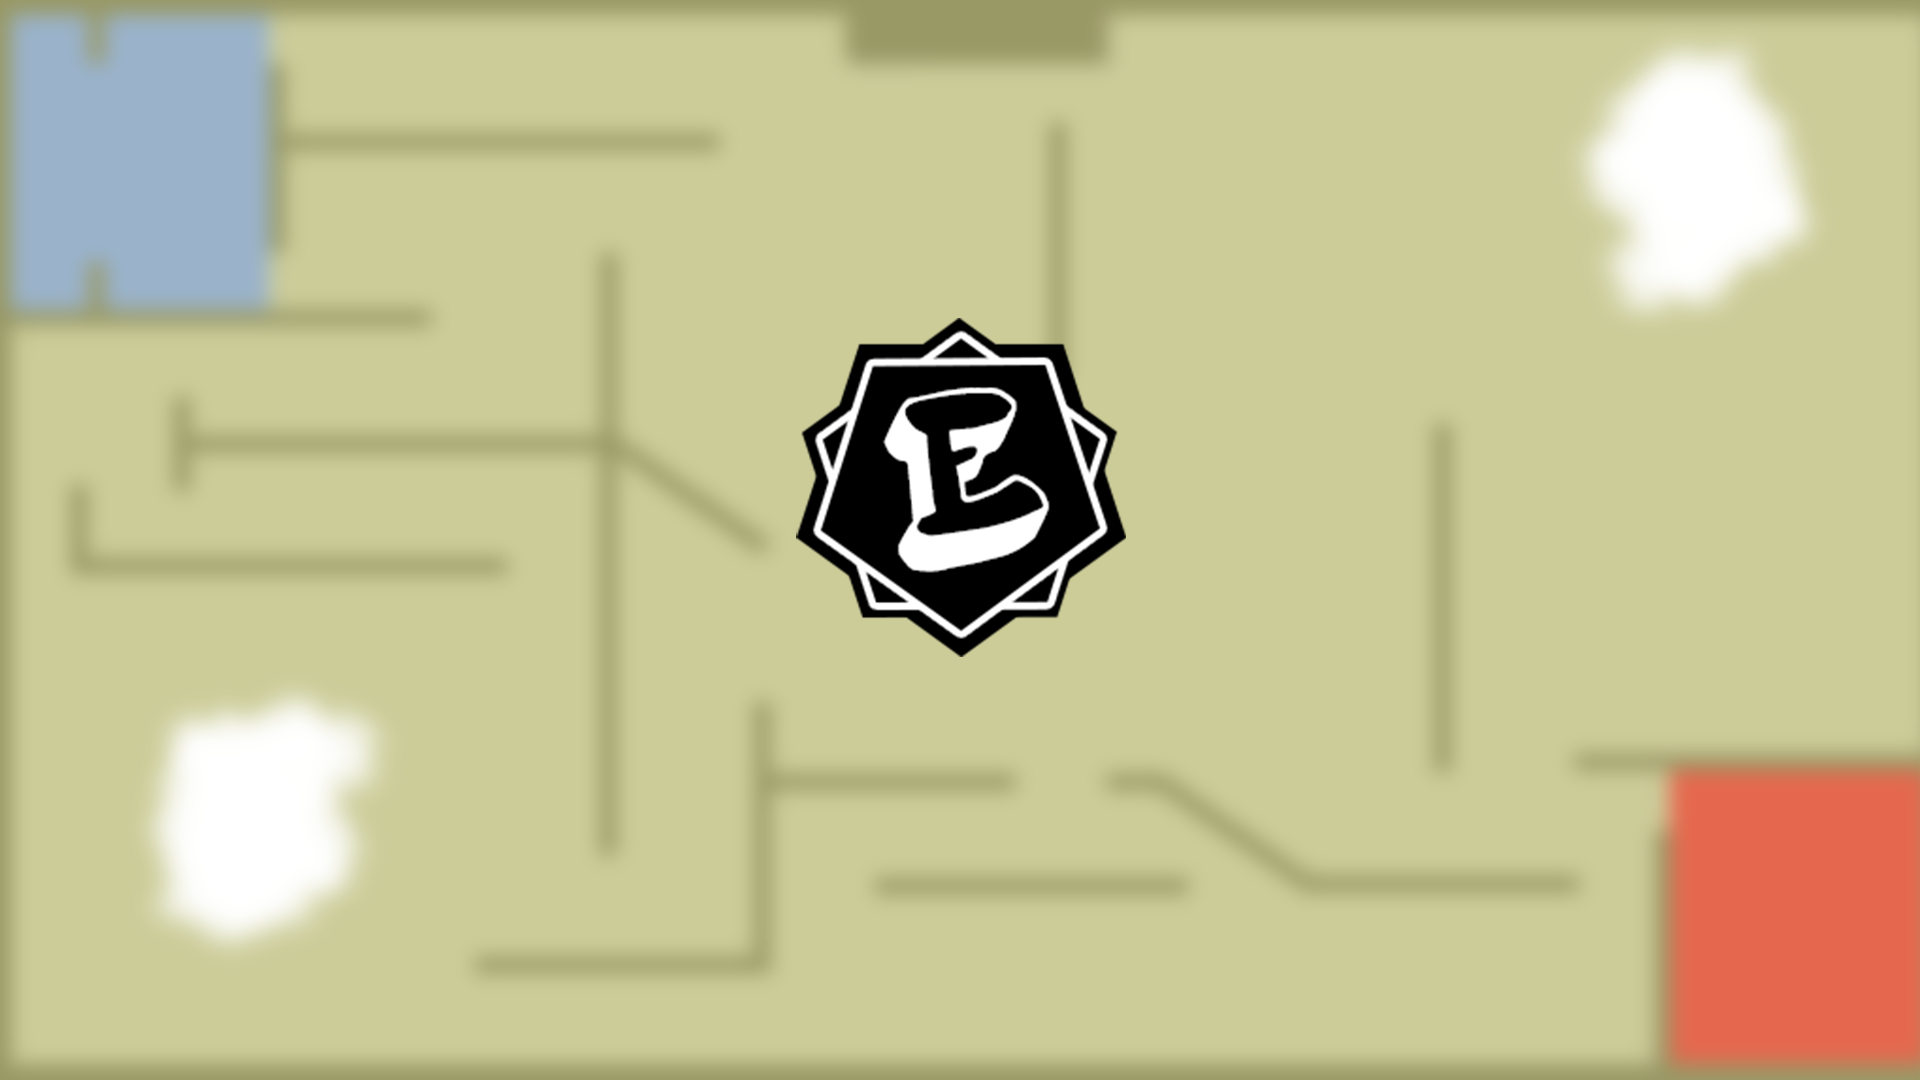
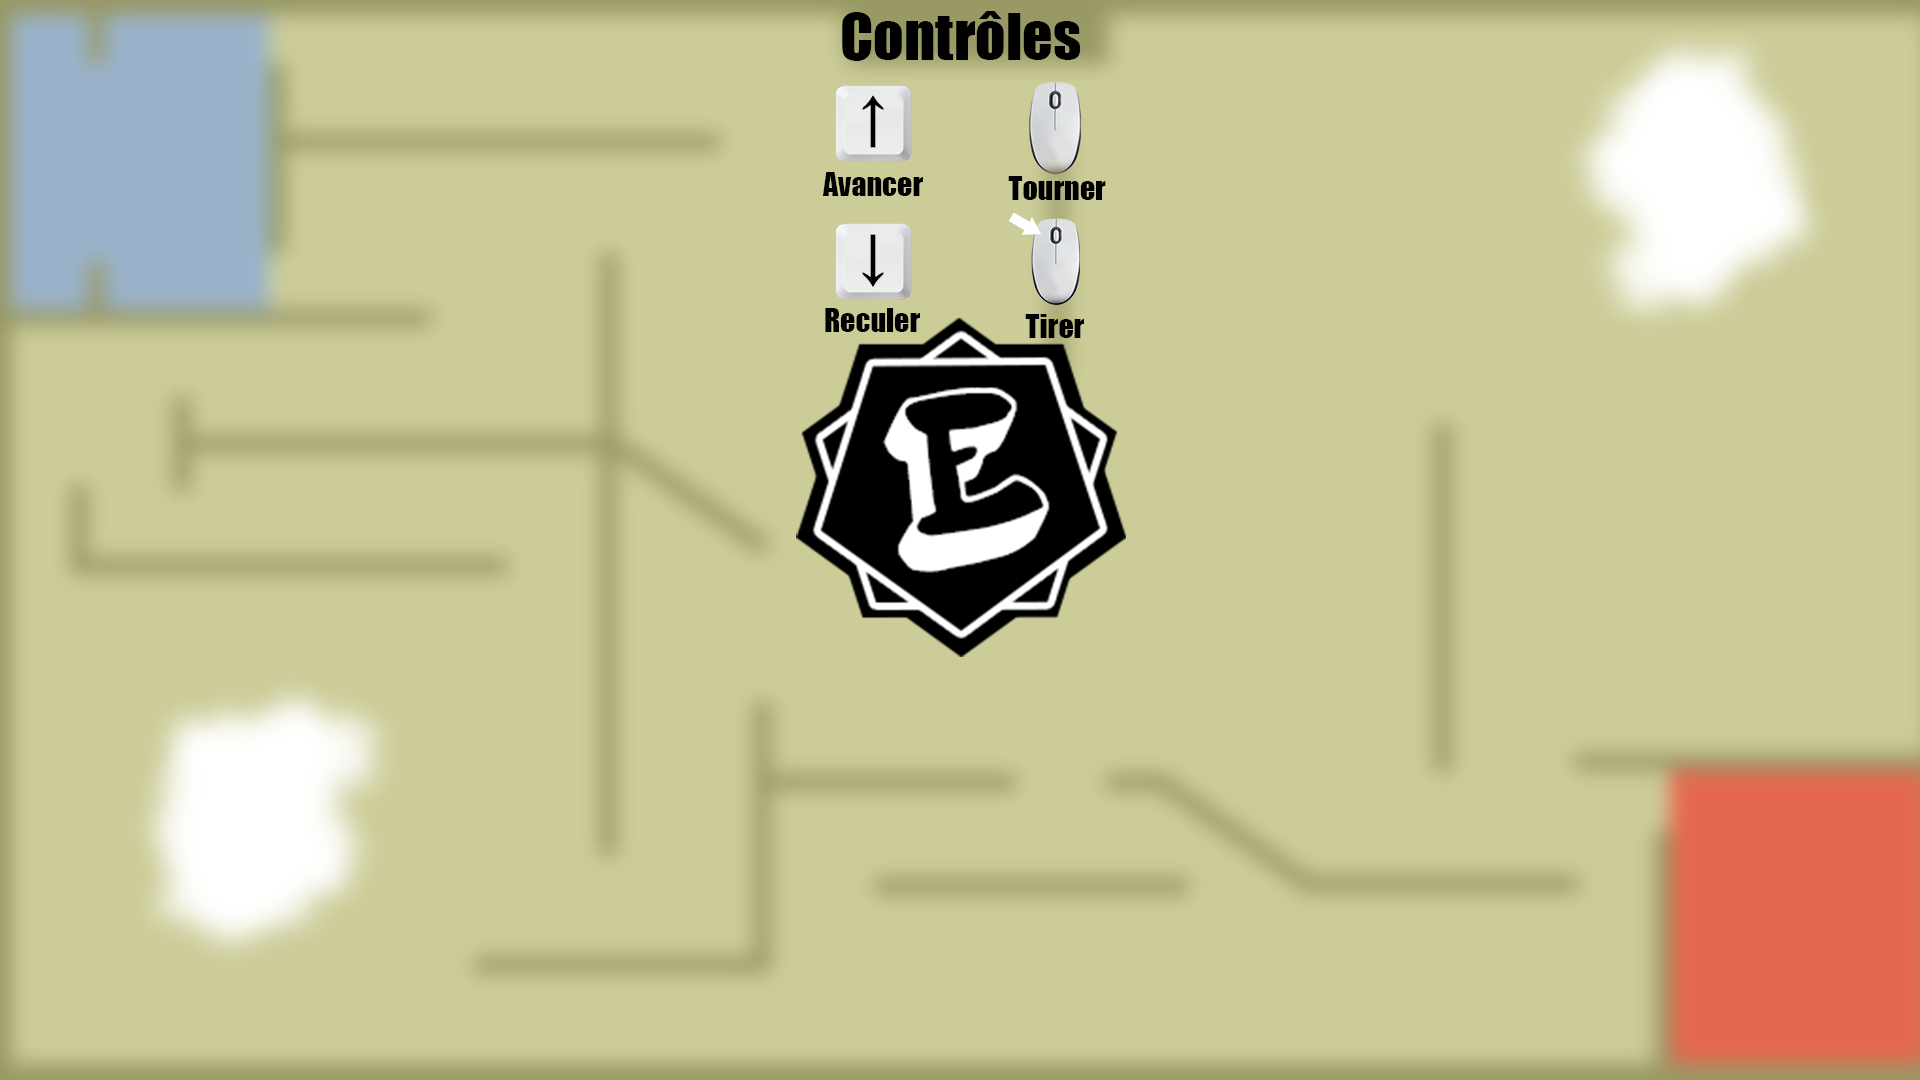
up

Changed region(s): [[0.4062, 0.0, 0.5938, 0.3361]]

diff --git a/net/epopy/network/handlers/modules/TChat.java b/net/epopy/network/handlers/modules/TChat.java
@@ -18,8 +18,8 @@ public class TChat {
 
 	private TextAreaGui textArea;
 	private int x, y, maxWidth;
-	private List<String> messages = new LinkedList<>();
-	private int MAX_MESSAGE = 12;
+	private static List<String> messages = new LinkedList<>();
+	private static int MAX_MESSAGE = 12;
 
 	public TChat(int x, int y, int maxWidth) {
 		this.x = x;
@@ -33,9 +33,9 @@ public class TChat {
 	/*
 	 * Fonctions
 	 */
-	public void addMessage(String sender, String message) {
-		messages.add(sender.equals("SERVER") ? "&e" + message : sender + " » " + message);
-		//System.out.println(sender + " » " + message);
+	public static void addMessage(String sender, String message) {//»
+		messages.add(sender.equals("SERVER") ? "&e" + message : sender + " : " + message);
+	
 		if(messages.size() > MAX_MESSAGE)
 			messageFirst++;
 
@@ -57,8 +57,10 @@ public class TChat {
 
 	}
 	//dernier message qu'il veut afficher 
-	int messageFirst = 1;
-
+	private static int messageFirst = 1;
+	private float[] serverColor = new float[]{1, 1, 0, 1};
+	private float[] defaultColor = new float[]{1, 1, 1, 1};
+	
 	public void render() {
 		int x = this.x - 15;
 		int y = this.y - 50;
@@ -75,9 +77,9 @@ public class TChat {
 
 		for(String message : messagesList) {
 			if(message.contains("&e"))
-				ComponentsHelper.drawText(message.replace("&e", ""), x, y, 30, new float[]{1, 1, 0, 1});
+				ComponentsHelper.drawText(message.replace("&e", ""), x, y, 30, serverColor);
 			else
-				ComponentsHelper.drawText(message, x, y, 30);
+				ComponentsHelper.drawText(message, x, y, 30, defaultColor);
 			y -= 30;
 		}
 

diff --git a/net/epopy/network/games/tank/Tank.java b/net/epopy/network/games/tank/Tank.java
@@ -1,6 +1,5 @@
 package net.epopy.network.games.tank;
 
-import static net.epopy.epopy.display.components.ComponentsHelper.drawCircle;
 import static net.epopy.epopy.display.components.ComponentsHelper.drawLine;
 import static net.epopy.epopy.display.components.ComponentsHelper.drawText;
 
@@ -87,9 +86,9 @@ public class Tank extends AbstractGameNetwork {
 							!PacketGameStatus.WAITING_MESSAGE.equals("Lancement dans 00:02") &&
 							!PacketGameStatus.WAITING_MESSAGE.equals("Lancement dans 00:03")) {
 						// inputs
-						if (Input.isKeyDown(Keyboard.KEY_S))
+						if (Input.isKeyDown(Keyboard.KEY_DOWN))
 							CalculTank.moove(true);
-						else if (Input.isKeyDown(Keyboard.KEY_Z))
+						else if (Input.isKeyDown(Keyboard.KEY_UP))
 							CalculTank.moove(false);
 					}
 					
@@ -133,8 +132,7 @@ public class Tank extends AbstractGameNetwork {
 			player.render();
 			
 		for (Ball ball : getBalls())
-			drawCircle(ball.getLocation().getX(), ball.getLocation().getY(), 5, 10, ball.getColor());
-			
+			ball.render();
 		if (getGameStatus().equals(GameStatus.IN_GAME)) {
 			drawText(String.valueOf(getTeam("BLUE").getPoints()), AbstractGameMenu.defaultWidth / 2 - 10, 20, PosWidth.DROITE, PosHeight.HAUT, 30, getTeam("BLUE").getColor());
 			drawText(String.valueOf(getTeam("RED").getPoints()), AbstractGameMenu.defaultWidth / 2 + 20, 20, PosWidth.GAUCHE, PosHeight.HAUT, 30, getTeam("RED").getColor());

diff --git a/net/epopy/network/games/AbstractGameNetwork.java b/net/epopy/network/games/AbstractGameNetwork.java
@@ -22,7 +22,7 @@ public abstract class AbstractGameNetwork {
 	private static Map<String, PlayerNetwork> players = new TreeMap<>();
 	private static Map<String, PlayerNetwork> playersADD = new TreeMap<>();
 	private static List<String> playersREMOVE = new LinkedList<>();
-	
+
 	private static Map<String, Team> teams = new TreeMap<>(); // STRING = nom de la team
 	private static Map<String, Ball> balls = new TreeMap<>(); // STRING = nom de la team
 	private static Map<String, Zone> zones = new TreeMap<>();//INT = id de la zone
@@ -117,9 +117,10 @@ public abstract class AbstractGameNetwork {
 	// ----- BALLS -----
 
 	public void updateBall(final String name, final float[] color, final Location3D location3d) {
-		if (balls.containsKey(name))
-			balls.get(name).setLocation3d(location3d);
-		else
+		if (balls.containsKey(name)) {
+			if(location3d != null)
+				balls.get(name).setLocation3d(location3d);
+		} else
 			balls.put(name, new Ball(name, color, location3d));
 	}
 
@@ -151,7 +152,7 @@ public abstract class AbstractGameNetwork {
 			zoneADD.clear();
 		}
 	}
-	
+
 	public void addZone(String id) {
 		updateZone();
 		if (!zones.containsKey(id))

diff --git a/net/epopy/network/handlers/packets/modules/PacketPlayerWaitingRoom.java b/net/epopy/network/handlers/packets/modules/PacketPlayerWaitingRoom.java
@@ -113,15 +113,10 @@ public class PacketPlayerWaitingRoom extends PacketAbstract {
 					if (MapLoader.LOADING) {
 						if (!connexion) {
 							connexion = true;
-							new java.util.Timer().schedule(
-									new java.util.TimerTask() {
-										@Override
-										public void run() {
-											NetworkPlayer.getNetworkPlayer().connectGame(ip, port);
-											System.out.println("[Server - Network] Server ready ! Teleportation ..."); 
-											NetworkPlayer.getGame().clear();
-										}
-									}, 500);
+
+							NetworkPlayer.getNetworkPlayer().connectGame(ip, port);
+							System.out.println("[Server - Network] Server ready ! Teleportation ..."); 
+							NetworkPlayer.getGame().clear();
 
 							new java.util.Timer().schedule(
 									new java.util.TimerTask() {
@@ -130,6 +125,7 @@ public class PacketPlayerWaitingRoom extends PacketAbstract {
 											Packets.sendPacket(NetworkPlayer.getNetworkPlayer().getNetworkPlayerHandlersGame(), new PacketPlayerJoin(team));
 										}
 									}, 2000);
+							
 							new java.util.Timer().schedule(
 									new java.util.TimerTask() {
 										@Override

diff --git a/net/epopy/network/games/modules/Ball.java b/net/epopy/network/games/modules/Ball.java
@@ -1,11 +1,19 @@
 package net.epopy.network.games.modules;
 
+import static net.epopy.epopy.display.components.ComponentsHelper.drawCircle;
+
+import net.epopy.network.NetworkPlayer;
+
 public class Ball {
 
 	private float[] color;
 	private Location3D location3d;
 	private String name;
-	
+
+	private double lastX = 0;
+	private double lastY = 0;
+	private int stay = 0;
+
 	public Ball(String name, float[] color, Location3D location3d) {
 		this.name = name;
 		this.color = color;
@@ -15,7 +23,7 @@ public class Ball {
 	/*
 	 * GETTERS
 	 */
-	
+
 	public float[] getColor() {
 		return color;
 	}
@@ -28,10 +36,23 @@ public class Ball {
 		return name;
 	}
 
+	public void render() {
+		if(getLocation().getX() == lastX && getLocation().getY() == lastY) {
+			stay++;
+			if(stay > 10) {
+				stay = 0;
+				NetworkPlayer.getGame().removeBall(getName());
+			}
+		} else 
+			drawCircle(getLocation().getX(), getLocation().getY(), 5, 10, getColor());
+		this.lastX = location3d.getX();
+		this.lastY = location3d.getY();
+	}
+
 	/*
 	 * SETTERS
 	 */
-	
+
 	public void setColor(float[] color) {
 		this.color = color;
 	}

diff --git a/net/epopy/network/handlers/packets/modules/PacketPlayerTChat.java b/net/epopy/network/handlers/packets/modules/PacketPlayerTChat.java
@@ -2,6 +2,7 @@ package net.epopy.network.handlers.packets.modules;
 
 import net.epopy.network.games.waitingroom.WaitingRoom;
 import net.epopy.network.handlers.NetworkPlayerHandlers;
+import net.epopy.network.handlers.modules.TChat;
 import net.epopy.network.handlers.packets.PacketAbstract;
 import net.epopy.network.utils.DataBuffer;
 
@@ -30,7 +31,7 @@ public class PacketPlayerTChat extends PacketAbstract {
 		String targetName = dataBuffer.getString();
 		String message = dataBuffer.getString();
 		PacketTChatType type = PacketTChatType.valueOf(dataBuffer.getString().toUpperCase());
-		switch (type) {
+	/**	switch (type) {
 		case PRIVATE:
 			break;
 		case WAITING_ROOM:
@@ -41,7 +42,9 @@ public class PacketPlayerTChat extends PacketAbstract {
 		default:
 			System.out.println("[TChat] Sender:" + senderName + " Target:" + targetName + " Message:" + message);
 			break;
-		}
+		}*/
+		if(type == PacketTChatType.WAITING_ROOM) 
+			TChat.addMessage(senderName, message);
 	}
 
 	public enum PacketTChatType {

diff --git a/net/epopy/network/handlers/NetworkPlayerHandlersUDP.java b/net/epopy/network/handlers/NetworkPlayerHandlersUDP.java
@@ -16,14 +16,15 @@ public class NetworkPlayerHandlersUDP implements Runnable {
 	private int				port;
 	private InetAddress		address;
 	private DatagramSocket	socket;
-
+	private Thread thread;
 	public NetworkPlayerHandlersUDP(NetworkPlayerHandlers networkPlayerHandlers, String address, int port) {
 		try {
 			this.address = InetAddress.getByName(address);
 			this.port = port;
 			this.socket = new DatagramSocket(networkPlayerHandlers.getSocket().getLocalPort());
 			//	socket.setReceiveBufferSize(Packets.MAX_SIZE * 30 * 100);
-			new Thread(this, "udp-thread").start();
+			thread = new Thread(this, "udp-thread");
+			thread.start();
 		} catch (SocketException e) {
 			System.out.println("SocketException");
 			System.out.println("Local port: " + networkPlayerHandlers.getSocket().getLocalPort());
@@ -70,5 +71,6 @@ public class NetworkPlayerHandlersUDP implements Runnable {
 
 	public void close() {
 		socket.close();
+		thread.stop();
 	}
 }

diff --git a/net/epopy/launcher/EpopyLauncher.java b/net/epopy/launcher/EpopyLauncher.java
@@ -136,6 +136,7 @@ public class EpopyLauncher {
 			String timeUpdate = timeFormat.format(Calendar.getInstance().getTimeInMillis() - startUpdate - 3600000);
 			System.out.println("  Update: " + timeUpdate);
 		} catch (Exception e) {
+			e.printStackTrace();
 		}
 
 		try {

diff --git a/net/epopy/network/handlers/NetworkPlayerHandlers.java b/net/epopy/network/handlers/NetworkPlayerHandlers.java
@@ -118,7 +118,7 @@ public class NetworkPlayerHandlers implements Runnable {
 
 	@Override
 	public void run() {
-		while (true) {
+		while (socket != null) {
 			try {
 				byte[] bytes = DataStream.readPacket(dataInputStream);
 				DataBuffer data = new DataBuffer(bytes);
